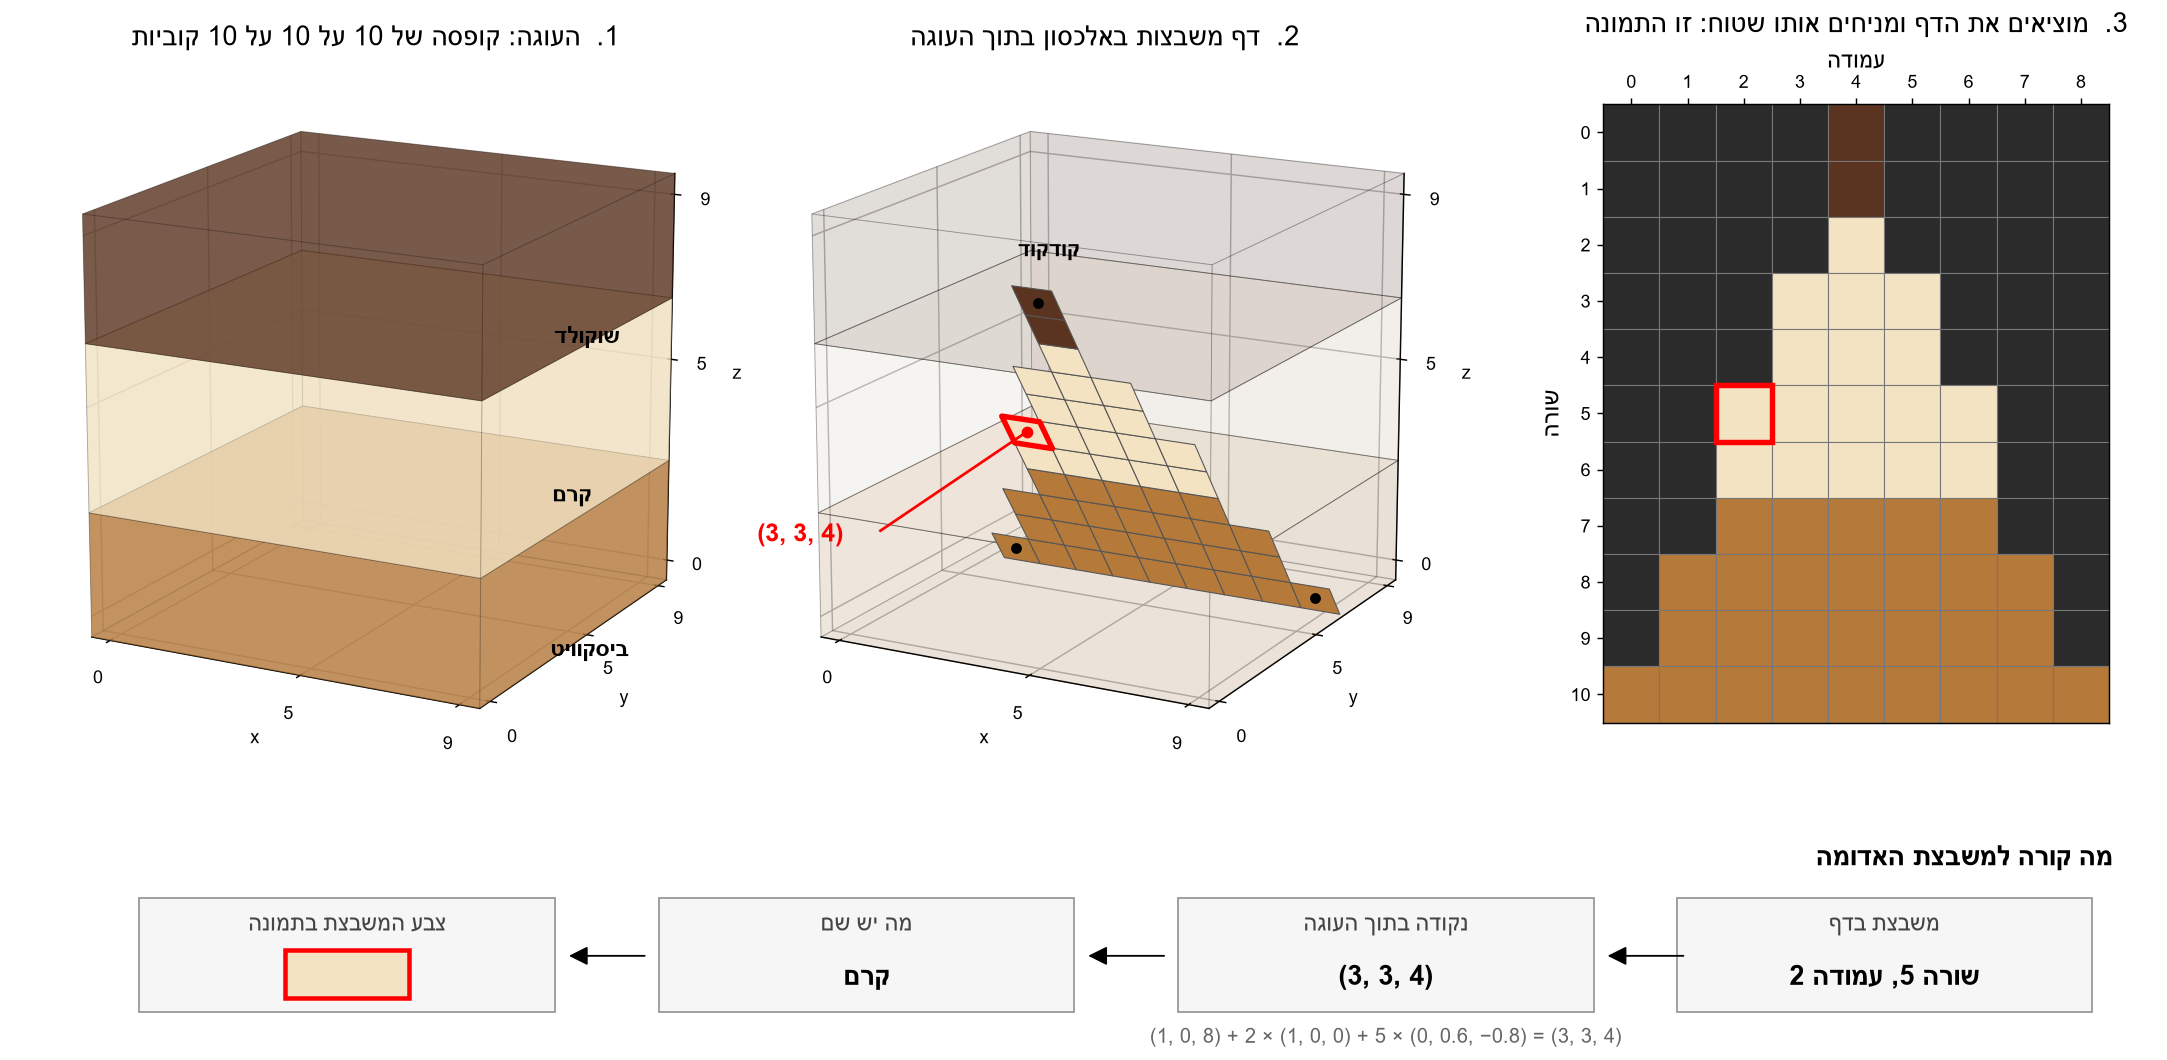
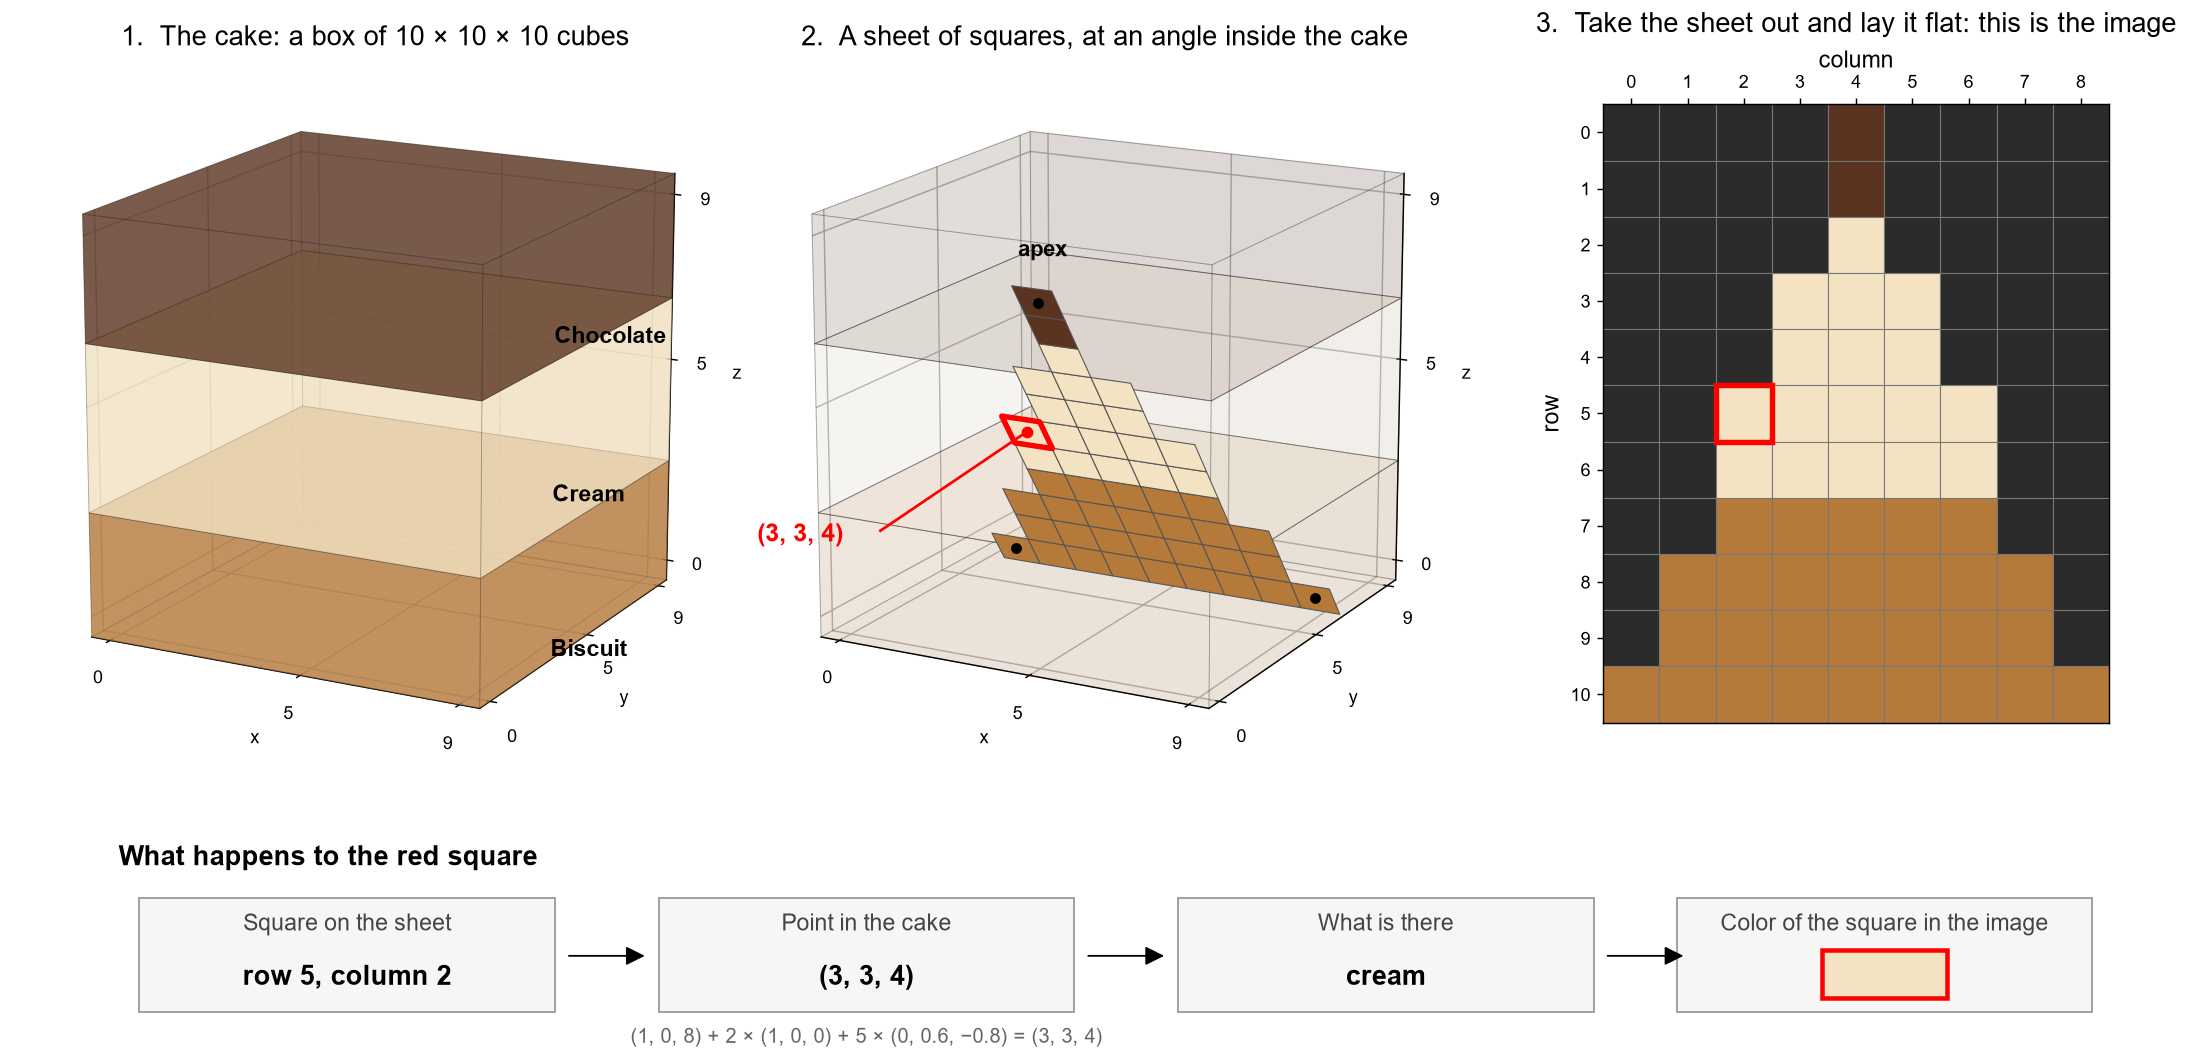
README picture in English, drawn by tools/explain_cut.py
The labels of the picture of how a cut is made were in Hebrew. They are now in
English, and the bottom row reads left to right. The script that draws it is
now in the project, so the picture can be drawn again.

diff --git a/tools/explain_cut.py b/tools/explain_cut.py
@@ -1,0 +1,172 @@
+"""Draw the picture at the top of the README: a sheet of squares inside a layered cake, and the flat image it becomes.
+
+The cake is the worked example of docs/SRS.md, section 3.4: a 10 x 10 x 10 volume of three layers, cut by
+the triangle a = (5, 0, 8), b = (1, 6, 0), c = (9, 6, 0). One square, row 5 and column 2, is followed from
+the sheet to the cake and back to the image.
+
+Usage:
+    python tools/explain_cut.py [--out FILE]
+"""
+
+import argparse
+from pathlib import Path
+
+import matplotlib
+
+matplotlib.use("Agg")                       # draw to files only, no window
+import matplotlib.pyplot as plt  # noqa: E402
+import numpy as np  # noqa: E402
+from matplotlib.patches import FancyArrowPatch, Rectangle  # noqa: E402
+from mpl_toolkits.mplot3d.art3d import Poly3DCollection  # noqa: E402
+
+PROJECT_ROOT = Path(__file__).resolve().parent.parent
+
+N = 10                                       # the cake is 10 x 10 x 10 cells
+APEX = np.array([5.0, 0.0, 8.0])
+BASE = [np.array([1.0, 6.0, 0.0]), np.array([9.0, 6.0, 0.0])]
+RIGHT = np.array([1.0, 0.0, 0.0])            # one step right on the sheet
+DOWN = np.array([0.0, 0.6, -0.8])            # one step down on the sheet
+CORNER = APEX - 4 * RIGHT                    # top-left square of the image
+ROWS, COLS = 11, 9
+HIGHLIGHT = (5, 2)                           # row, column
+
+LAYERS = [  # (first cell, last cell, color, name)
+    (0, 2, "#b5793a", "Biscuit"),
+    (3, 6, "#f3e3c3", "Cream"),
+    (7, 9, "#5a3420", "Chocolate"),
+]
+OUTSIDE = "#2b2b2b"
+
+
+def layer_of(z_cell):
+    for lo, hi, color, name in LAYERS:
+        if lo <= z_cell <= hi:
+            return color, name
+    return OUTSIDE, None
+
+
+def point(r, c):
+    return CORNER + c * RIGHT + r * DOWN
+
+
+def inside_triangle(r, c):
+    return abs(c - 4) <= 0.4 * r + 1e-9
+
+
+def box_faces(lo, hi):
+    (x0, y0, z0), (x1, y1, z1) = lo, hi
+    v = np.array([[x0, y0, z0], [x1, y0, z0], [x1, y1, z0], [x0, y1, z0],
+                  [x0, y0, z1], [x1, y0, z1], [x1, y1, z1], [x0, y1, z1]])
+    idx = [[0, 1, 2, 3], [4, 5, 6, 7], [0, 1, 5, 4], [2, 3, 7, 6], [1, 2, 6, 5], [0, 3, 7, 4]]
+    return [v[i] for i in idx]
+
+
+def square(p):
+    return [p + sx * 0.5 * RIGHT + sy * 0.5 * DOWN for sx, sy in [(-1, -1), (1, -1), (1, 1), (-1, 1)]]
+
+
+def setup_3d(ax):
+    ax.set_xlim(-0.5, N - 0.5); ax.set_ylim(-0.5, N - 0.5); ax.set_zlim(-0.5, N - 0.5)
+    ax.set_box_aspect((1, 1, 1))
+    ax.view_init(elev=16, azim=-62)
+    ax.computed_zorder = False
+    ax.set_xlabel("x"); ax.set_ylabel("y"); ax.set_zlabel("z")
+    ax.set_xticks([0, 5, 9]); ax.set_yticks([0, 5, 9]); ax.set_zticks([0, 5, 9])
+
+
+def draw_cake(ax, alpha):
+    for lo, hi, color, _ in LAYERS:
+        faces = box_faces((-0.5, -0.5, lo - 0.5), (N - 0.5, N - 0.5, hi + 0.5))
+        ax.add_collection3d(Poly3DCollection(faces, facecolor=color, edgecolor="#00000030",
+                                             alpha=alpha, linewidth=0.5))
+
+
+def draw(out):
+    plt.rcParams["font.family"] = "Arial"
+    fig = plt.figure(figsize=(17, 8.2), dpi=130)
+    fig.patch.set_facecolor("white")
+
+    # panel 1: the cake
+    ax1 = fig.add_axes([0.0, 0.25, 0.33, 0.68], projection="3d")
+    setup_3d(ax1)
+    draw_cake(ax1, 0.55)
+    ax1.set_title("1.  The cake: a box of 10 × 10 × 10 cubes", fontsize=15, pad=2)
+    for lo, hi, color, name in LAYERS:
+        ax1.text(N + 1.2, -0.5, (lo + hi) / 2, name, fontsize=13, color="black", fontweight="bold")
+
+    # panel 2: the sheet inside the cake
+    ax2 = fig.add_axes([0.33, 0.25, 0.33, 0.68], projection="3d")
+    setup_3d(ax2)
+    draw_cake(ax2, 0.07)
+    squares, colors = [], []
+    for r in range(ROWS):
+        for c in range(COLS):
+            if not inside_triangle(r, c):
+                continue
+            p = point(r, c)
+            squares.append(square(p))
+            colors.append(layer_of(int(round(p[2])))[0])
+    ax2.add_collection3d(Poly3DCollection(squares, facecolor=colors, edgecolor="#555555", linewidth=0.6))
+    hp = point(*HIGHLIGHT)
+    ax2.add_collection3d(Poly3DCollection([square(hp)], facecolor=layer_of(int(round(hp[2])))[0],
+                                          edgecolor="red", linewidth=3))
+    ax2.scatter(*hp, color="red", s=30, depthshade=False)
+    ax2.plot([hp[0], hp[0] - 4.0], [hp[1], hp[1]], [hp[2], hp[2] - 3.0], color="red", linewidth=1.5)
+    ax2.text(hp[0] - 7.5, hp[1], hp[2] - 3.8, "(3, 3, 4)", color="red", fontsize=14, fontweight="bold")
+    for q in [APEX] + BASE:
+        ax2.scatter(*q, color="black", s=25, depthshade=False)
+    ax2.text(APEX[0] - 0.5, APEX[1], APEX[2] + 1.0, "apex", fontsize=12, fontweight="bold")
+    ax2.set_title("2.  A sheet of squares, at an angle inside the cake", fontsize=15, pad=2)
+
+    # panel 3: the flat image
+    ax3 = fig.add_axes([0.70, 0.30, 0.27, 0.58])
+    for r in range(ROWS):
+        for c in range(COLS):
+            color = layer_of(int(round(point(r, c)[2])))[0] if inside_triangle(r, c) else OUTSIDE
+            ax3.add_patch(Rectangle((c - 0.5, r - 0.5), 1, 1, facecolor=color, edgecolor="#777777", linewidth=0.6))
+    ax3.add_patch(Rectangle((HIGHLIGHT[1] - 0.5, HIGHLIGHT[0] - 0.5), 1, 1, facecolor="none",
+                            edgecolor="red", linewidth=3))
+    ax3.set_xlim(-0.5, COLS - 0.5); ax3.set_ylim(ROWS - 0.5, -0.5)
+    ax3.set_aspect("equal")
+    ax3.set_xticks(range(COLS)); ax3.set_yticks(range(ROWS))
+    ax3.xaxis.tick_top()
+    ax3.set_xlabel("column", fontsize=13); ax3.xaxis.set_label_position("top")
+    ax3.set_ylabel("row", fontsize=13)
+    ax3.set_title("3.  Take the sheet out and lay it flat: this is the image", fontsize=15, pad=40)
+
+    # bottom strip: the red square, step by step, left to right
+    strip = fig.add_axes([0.03, 0.02, 0.94, 0.17]); strip.axis("off")
+    strip.set_xlim(0, 100); strip.set_ylim(0, 10)
+    strip.text(2, 8.6, "What happens to the red square", ha="left", fontsize=15, fontweight="bold")
+    boxes = [  # x center, top line, bottom line
+        (13, "Square on the sheet", "row 5, column 2"),
+        (38, "Point in the cake", "(3, 3, 4)"),
+        (63, "What is there", "cream"),
+        (87, "Color of the square in the image", None),
+    ]
+    for x, top, bottom in boxes:
+        strip.add_patch(Rectangle((x - 10, 0.5), 20, 6.3, facecolor="#f6f6f6", edgecolor="#999999"))
+        strip.text(x, 5.0, top, ha="center", fontsize=13, color="#444444")
+        if bottom:
+            strip.text(x, 2.0, bottom, ha="center", fontsize=15, fontweight="bold")
+    strip.add_patch(Rectangle((84, 1.3), 6, 2.6, facecolor=LAYERS[1][2], edgecolor="red", linewidth=2.5))
+    for x0 in (23, 48, 73):
+        strip.add_patch(FancyArrowPatch((x0 + 0.5, 3.6), (x0 + 4.5, 3.6), arrowstyle="-|>",
+                                        mutation_scale=22, color="black"))
+    strip.text(38, -1.2, "(1, 0, 8) + 2 × (1, 0, 0) + 5 × (0, 0.6, −0.8) = (3, 3, 4)", ha="center",
+               fontsize=11, color="#666666")
+
+    out.parent.mkdir(parents=True, exist_ok=True)
+    fig.savefig(out, bbox_inches="tight", facecolor="white")
+    plt.close(fig)
+    print("saved", out)
+
+
+def main():
+    parser = argparse.ArgumentParser(description=__doc__.splitlines()[0])
+    parser.add_argument("--out", type=Path, default=PROJECT_ROOT / "DATA" / "images" / "explain" / "how_a_cut_is_made.png")
+    draw(parser.parse_args().out)
+
+
+if __name__ == "__main__":
+    main()
